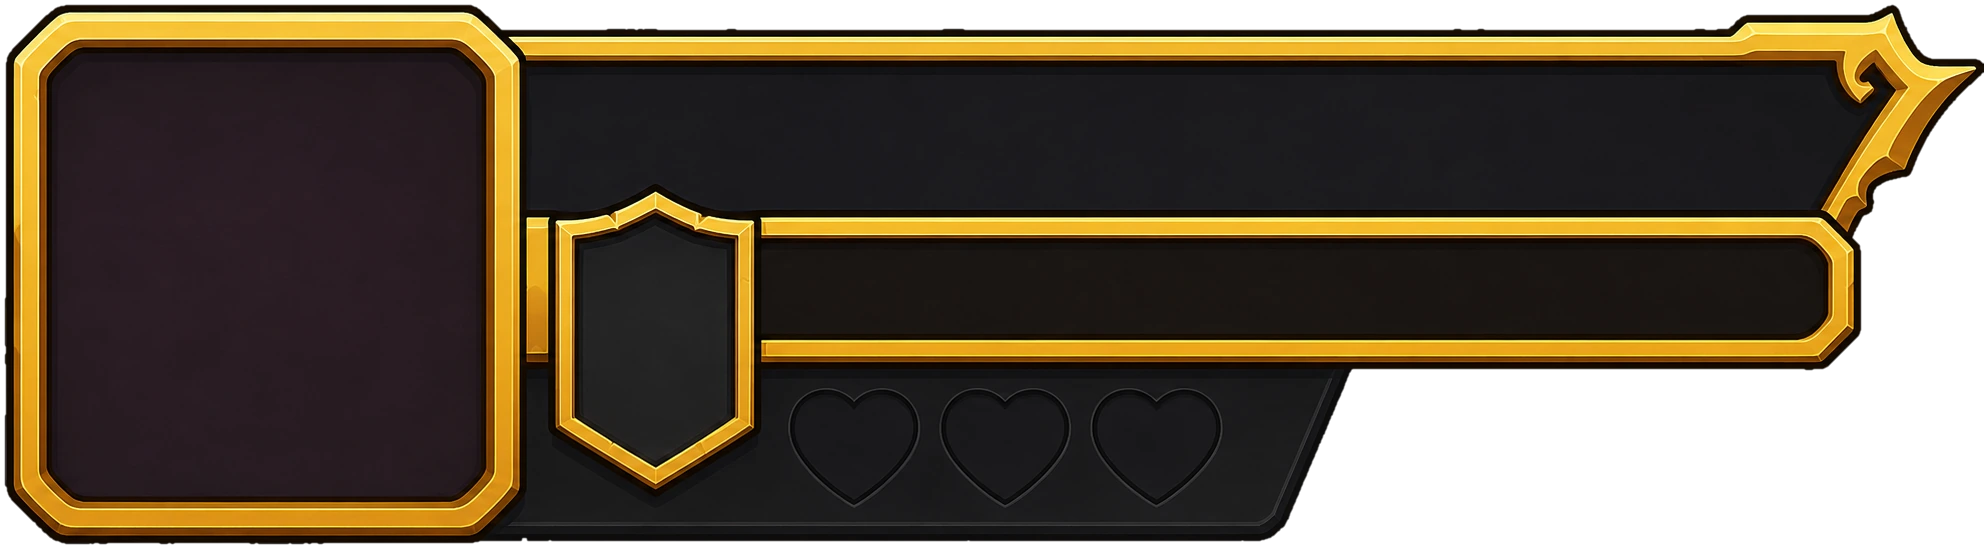
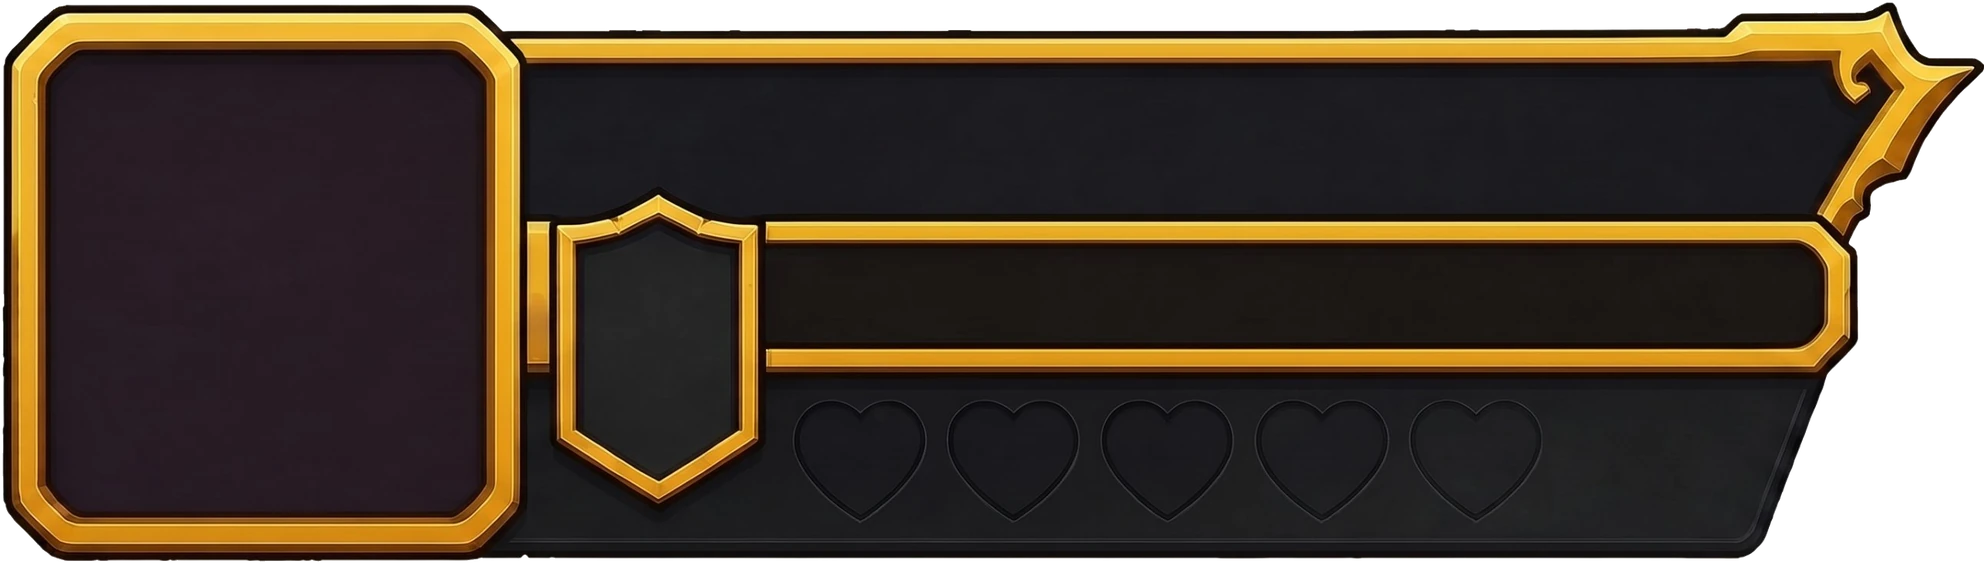
feat(hati): HUD profil baru (5 slot hati tergambar); status di kanan slot: timer / READY / +N; SW v317
Claude-Session: https://claude.ai/code/session_01AAigpYcDdM3hPzQGtwrxsw

Changed region(s): [[0.0, 0.0, 1.0, 1.0], [0.5625, 0.898, 0.5938, 0.929], [0.5, 0.898, 0.5312, 0.929]]

diff --git a/assets/css/pages/lobby.css b/assets/css/pages/lobby.css
@@ -47,7 +47,7 @@ html[data-graphics="low"] .mbtn img{filter:none!important}
 .sidecard{isolation:isolate;padding-left:0}
 
 /* ===== HUD profil lobi (gambar transparan hud-profil.webp, 620px lebar; koordinat = posisi slot pada gambar) ===== */
-#profile{top:10px;width:620px;height:172px}
+#profile{top:10px;width:620px;height:176px}
 #hudbg{position:absolute;left:0;top:0;width:620px;height:auto;pointer-events:none;user-select:none}
 #avatar{left:14px;top:14px;width:138px;height:142px;background:#2a1d2c;box-shadow:none;
   clip-path:polygon(8px 0,calc(100% - 8px) 0,100% 8px,100% calc(100% - 8px),calc(100% - 8px) 100%,8px 100%,0 calc(100% - 8px),0 8px)}
@@ -58,13 +58,14 @@ html[data-graphics="low"] .mbtn img{filter:none!important}
 #xp{left:241px;top:78px;width:326px;height:27px;border:0;border-radius:8px;background:none;box-shadow:none}
 #xpfill{border-radius:8px}
 #xptxt{padding-left:0;font-size:18px}
-/* 5 hati (default pemain): panel gelap di bawah XP diperpanjang ke kanan menutupi 3 slot gambar & memuat 2 slot tambahan + hitung mundur isi ulang.
-   Warna panel gambar datar #1a1a1a, jadi sambungannya mulus. Hitung mundur muncul hanya saat hati belum penuh. */
-#hearts{position:absolute;left:248px;top:123px;height:35px;width:330px;pointer-events:none}
-#hbk{position:absolute;left:-8px;top:-9px;width:338px;height:52px;background:#1a1a1a;clip-path:polygon(0 0,100% 0,calc(100% - 19px) 100%,0 100%);box-shadow:inset 0 -3px 0 #0a0a0a}
-#hslots{position:absolute;left:0;top:0;display:flex;gap:9px}
-#hearts svg{width:39px;height:35px;flex:none;filter:drop-shadow(0 2px 1px rgba(0,0,0,.5))}
-#htime{position:absolute;left:246px;top:3px;font-size:26px;line-height:30px;color:#ffe9a8;-webkit-text-stroke:1px #1a1205;letter-spacing:.5px}
+/* 5 hati: slot (kosong) sudah tergambar di hud-profil.webp; hanya hati yang TERISI digambar di atasnya (slot kosong = spacer transparan).
+   Teks di kanan slot ke-5: hati < 5 = hitung mundur isi ulang, tepat 5 = "READY", > 5 = "+N". */
+#hearts{position:absolute;left:249.5px;top:125.5px;height:35px;width:310px;pointer-events:none}
+#hslots{position:absolute;left:0;top:0;display:flex;gap:10.1px}
+#hslots i{display:block;width:38px;height:35px;flex:none}
+#hearts svg{width:38px;height:35px;flex:none;filter:drop-shadow(0 2px 1px rgba(0,0,0,.5))}
+#htime{position:absolute;left:233px;top:2px;width:70px;text-align:center;font-size:22px;line-height:31px;white-space:nowrap;color:#ffe9a8;-webkit-text-stroke:1px #1a1205;letter-spacing:.5px}
+#htime.ready{color:#a6f06b;-webkit-text-stroke:1px #0f3a08;font-size:21px}
 #htime:empty{display:none}
 html[data-graphics="low"] #hearts svg{filter:none}
 

diff --git a/lobby.html b/lobby.html
@@ -20,11 +20,10 @@
     <div id="lvl" style="pointer-events:none"><b class="t-title" id="lvnum">1</b></div>
     <div id="pname" class="t-title"><span id="nm">Pemain</span><img src="assets/images/ui/language-flags/bendera-inggris.webp" alt="bendera"></div>
     <div id="xp"><div id="xpfill"></div><div id="xptxt">—</div></div>
-    <div id="hearts" aria-label="Nyawa"><i id="hbk"></i><span id="hslots"></span><b id="htime" class="t-title"></b></div>
+    <div id="hearts" aria-label="Nyawa"><span id="hslots"></span><b id="htime" class="t-title"></b></div>
     <svg width="0" height="0" style="position:absolute" aria-hidden="true"><defs>
       <linearGradient id="lv-hg" x1="0" y1="0" x2="0" y2="1"><stop offset="0" stop-color="#ff7a8a"/><stop offset=".55" stop-color="#e3263f"/><stop offset="1" stop-color="#a00f2a"/></linearGradient>
       <symbol id="lv-heart" viewBox="0 0 32 29"><path d="M16 27.5C6 20 1.5 14.6 1.5 8.9 1.5 4.6 4.8 1.5 8.9 1.5c3 0 5.5 1.7 7.1 4.4 1.6-2.7 4.1-4.4 7.1-4.4 4.1 0 7.4 3.1 7.4 7.4 0 5.7-4.5 11.1-14.5 18.6z" fill="url(#lv-hg)" stroke="#5a0615" stroke-width="2" stroke-linejoin="round"/><path d="M7.5 6.2c-2.1.6-3.2 2.4-3.2 4.3" fill="none" stroke="#fff" stroke-opacity=".6" stroke-width="2.2" stroke-linecap="round"/></symbol>
-      <symbol id="lv-heart-off" viewBox="0 0 32 29"><path d="M16 27.5C6 20 1.5 14.6 1.5 8.9 1.5 4.6 4.8 1.5 8.9 1.5c3 0 5.5 1.7 7.1 4.4 1.6-2.7 4.1-4.4 7.1-4.4 4.1 0 7.4 3.1 7.4 7.4 0 5.7-4.5 11.1-14.5 18.6z" fill="#202020" stroke="#3b3b3b" stroke-width="2" stroke-linejoin="round"/></symbol>
     </defs></svg>
   </div>
 

diff --git a/data/lobby/js/lobby.js b/data/lobby/js/lobby.js
@@ -234,9 +234,10 @@ const HRT=UT.HeartsService&&UT.HeartsService.get&&UT.HeartsService.get();
 (function(){const slots=$('#hslots'),tm=$('#htime');if(!slots||!tm)return;
  const mmss=s=>{s=Math.max(0,s|0);return String(Math.floor(s/60)).padStart(2,'0')+':'+String(s%60).padStart(2,'0')};
  let key='';
- function paint(){const s=HRT?HRT.snapshot():{hearts:5,max:5,nextInSecs:0,full:true},max=Math.max(5,s.max|0),n=Math.max(0,s.hearts|0),k=n+'/'+max;
-  if(k!==key){key=k;slots.innerHTML=Array.from({length:max},(_,i)=>'<svg viewBox="0 0 32 29" aria-hidden="true"><use href="#lv-heart'+(i<n?'':'-off')+'"/></svg>').join('')}
-  tm.textContent=n>max?'+'+(n-max):(s.full||!s.nextInSecs?'':mmss(s.nextInSecs));
+ function paint(){const s=HRT?HRT.snapshot():{hearts:5,max:5,nextInSecs:0,full:true},max=Math.max(5,s.max|0),n=Math.max(0,s.hearts|0),f=Math.min(n,max),k=f+'/'+max;
+  if(k!==key){key=k;slots.innerHTML=Array.from({length:max},(_,i)=>i<f?'<svg viewBox="0 0 32 29" aria-hidden="true"><use href="#lv-heart"/></svg>':'<i></i>').join('')}
+  /* hati < 5: hitung mundur | tepat 5: READY | > 5: +N */
+  tm.textContent=n>max?'+'+(n-max):n<max?mmss(s.nextInSecs):'READY';tm.className='t-title'+(n===max?' ready':'');
   $('#hearts').setAttribute('aria-label','Nyawa '+n+' dari '+max)}
  paint();if(HRT&&HRT.onChange)HRT.onChange(paint);setInterval(()=>{if(!document.hidden)paint()},1000);
  if(SRV&&HRT)HRT.get()})();

diff --git a/doc/fitur/hati/HATI.md b/doc/fitur/hati/HATI.md
@@ -3,7 +3,7 @@
 - Tiap pemain punya **5 hati** (default). **1 hati terpakai tiap match dimulai** (semua mode, termasuk "Mulai ulang"/"Main lagi" di gameplay). Terisi lagi otomatis **1 hati / 5 menit** sampai penuh.
 - **Server yang menentukan** (`supabase/migrations/202611410001_hearts.sql`: `hearts_get`, `hearts_consume`). Isi ulang dihitung malas dari jam server (tanpa cron). Angka hanya di `_hearts_max()` & `_hearts_regen_secs()`.
 - Stok boleh **> 5** (disiapkan untuk hadiah teman/chest); isi ulang otomatis hanya berjalan saat < 5.
-- Klien: `assets/js/services/hearts-service.js` (status + proyeksi hitung mundur), `assets/js/hearts-gate.js` (modal "Hati habis" + `spend()`/`guard()`), dipakai `RoomFlow.launch`, tombol Ready/Start di room, Quick Start, dan gameplay. HUD lobi: 5 slot + hitung mundur (`data/lobby/js/lobby.js`); chip sisa hati + hitung mundur di room (kanan atas, `#hrt` di `assets/js/pages/room.js`).
+- Klien: `assets/js/services/hearts-service.js` (status + proyeksi hitung mundur), `assets/js/hearts-gate.js` (modal "Hati habis" + `spend()`/`guard()`), dipakai `RoomFlow.launch`, tombol Ready/Start di room, Quick Start, dan gameplay. HUD lobi (`hud-profil.webp` sudah memuat 5 slot; hanya hati terisi digambar): hati < 5 = hitung mundur, tepat 5 = READY, > 5 = +N (`data/lobby/js/lobby.js`); chip sisa hati + hitung mundur di room (kanan atas, `#hrt` di `assets/js/pages/room.js`).
 - Kebijakan: hanya `hati-habis` yang memblokir. Gagal jaringan/belum login = lolos; tamu/lokal = tanpa batas.
 - Tes: `tests/hearts-service.test.js`, `tests/room-flow-spa.test.js`, `supabase/tests/hearts_test.sql` (DB uji).
 
